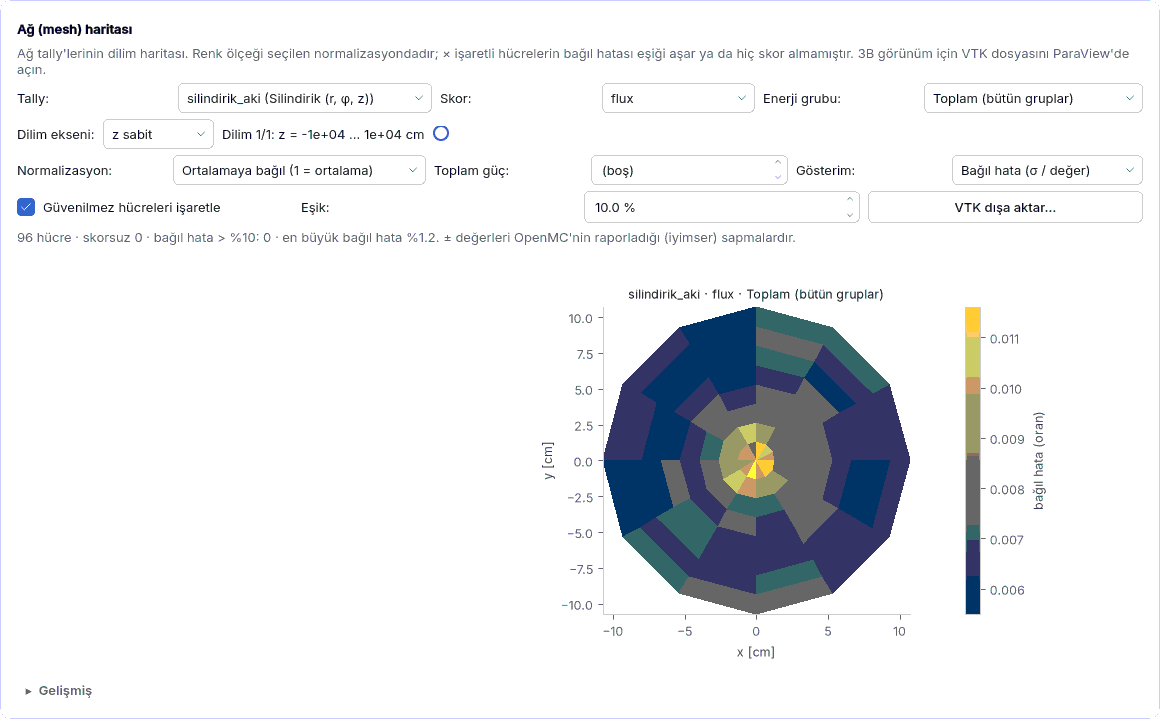
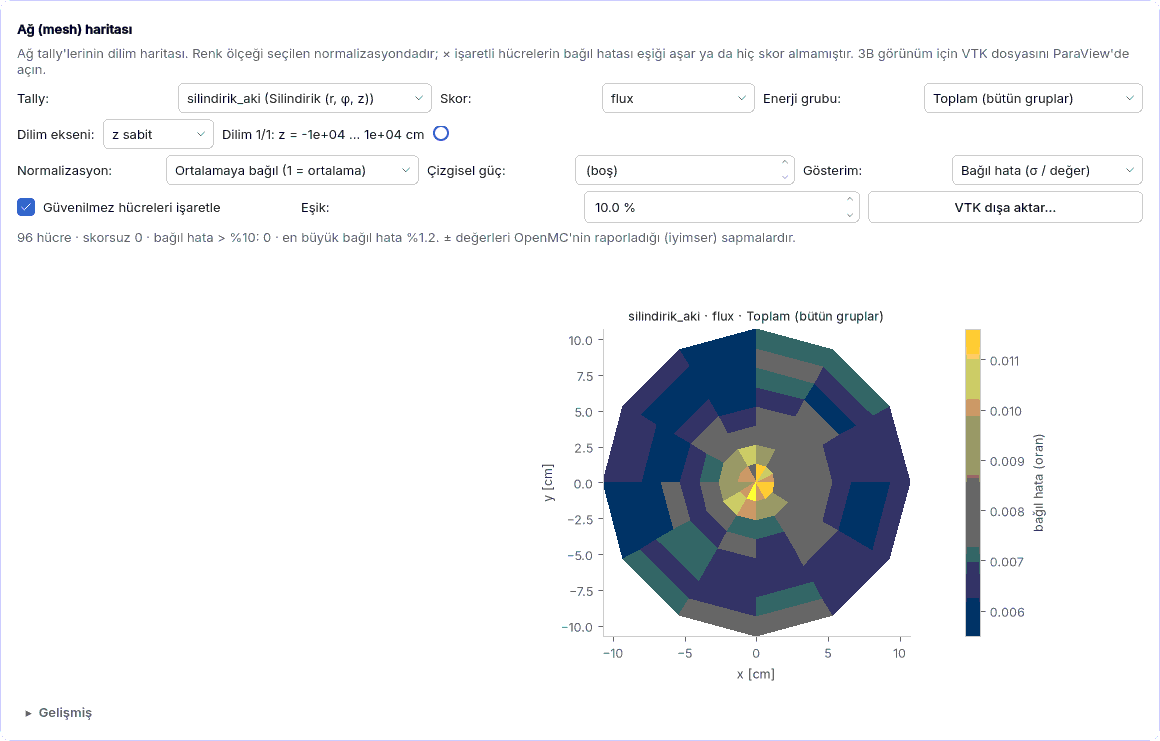
refactor(Y1): ortak islevlere tip aciklamalari; ekran goruntuleri yenilendi (2B'de Cizgisel guc kutusu)

diff --git a/cekirdek/mesh_tally/tanim.py b/cekirdek/mesh_tally/tanim.py
@@ -77,7 +77,7 @@ GRUP_YAPILARI = ("CASMO-2", "CASMO-4", "CASMO-8", "CASMO-16", "CASMO-25",
                  "CASMO-40", "CASMO-70", "XMAS-172", "SHEM-361")
 
 
-def mesh_turu(f):
+def mesh_turu(f: dict) -> str:
     """Filtrenin mesh turu; yoksa duzenli. Bilinmeyen tur ValueError."""
     tur = (f or {}).get("mesh_turu") or DUZENLI
     if tur not in MESH_TURLERI:
@@ -90,14 +90,14 @@ def mesh_turu(f):
 # kuruculari (spec sozlukleri; yeni nesne doner)
 # ---------------------------------------------------------------------------
 
-def filtre_duzenli(boyut, alt=None, ust=None):
+def filtre_duzenli(boyut, alt=None, ust=None) -> dict:
     """Duzenli mesh filtresi; alt/ust verilmezse sinirlar otomatik."""
     if alt is None or ust is None:
         return {"tur": "mesh", "boyut": list(boyut), "otomatik": True}
     return {"tur": "mesh", "boyut": list(boyut), "alt": list(alt), "ust": list(ust)}
 
 
-def filtre_silindirik(boyut, r_ust=None, z_alt=None, z_ust=None, merkez=None):
+def filtre_silindirik(boyut, r_ust=None, z_alt=None, z_ust=None, merkez=None) -> dict:
     """Silindirik mesh filtresi [nr, nphi, nz]; r_ust yoksa sinirlar otomatik."""
     f = {"tur": "mesh", "mesh_turu": SILINDIRIK, "boyut": list(boyut)}
     if r_ust is None:
@@ -109,7 +109,7 @@ def filtre_silindirik(boyut, r_ust=None, z_alt=None, z_ust=None, merkez=None):
     return f
 
 
-def filtre_kuresel(boyut, r_ust=None, merkez=None):
+def filtre_kuresel(boyut, r_ust=None, merkez=None) -> dict:
     """Kuresel mesh filtresi [nr, ntheta, nphi]; r_ust yoksa otomatik."""
     f = {"tur": "mesh", "mesh_turu": KURESEL, "boyut": list(boyut)}
     if r_ust is None:
@@ -156,7 +156,7 @@ def _acik_sinir_hatalari(f, tur):
     return hatalar
 
 
-def filtre_hatalari(f):
+def filtre_hatalari(f: dict) -> list:
     """Mesh filtresindeki hatalar (gorunen metin listesi); [] = gecerli."""
     try:
         tur = mesh_turu(f)
@@ -169,14 +169,14 @@ def filtre_hatalari(f):
 # sinirlar ve tanim
 # ---------------------------------------------------------------------------
 
-def model_sinir_kutusu(spec):
+def model_sinir_kutusu(spec: dict) -> tuple:
     """Modelin sinir kutusu (gx, gy) [cm] -- OpenMC modeli KURMADAN (geometri
     modelinden; kurucu.kur'un bilgi["sinir_kutu"] degeriyle ayni, test edilir)."""
     from cekirdek import geometri
     return tuple(float(x) for x in geometri.sinir_kutusu(geometri.model(spec)))
 
 
-def sinir_onerisi(spec, sinir_kutu, tur, z_aralik=None):
+def sinir_onerisi(spec: dict, sinir_kutu, tur: str, z_aralik=None) -> dict:
     """
     Modelin sinir kutusundan (gx, gy) [cm] otomatik sinir onerisi.
       duzenli    : x, y kurucu.tally_mesh_sinirlari ile ayni (sinir kutusu); z kor
@@ -203,7 +203,7 @@ def sinir_onerisi(spec, sinir_kutu, tur, z_aralik=None):
     raise ValueError(_("bilinmeyen ağ türü: %s") % tur)
 
 
-def eksenel_sonsuz(spec) -> bool:
+def eksenel_sonsuz(spec: dict) -> bool:
     """2B model: kor yuksekligi yok ve kure degil (spec'e gore z ekseninde sinir
     yok). Geometri yine de z'de sinirliysa kurucu/betik z_aralik ile kirpar
     (genel.geometri_z_araligi); butun orneklerde iki olcut ayni (test D7)."""
@@ -246,7 +246,7 @@ def mesh_tanimi(spec, f, sinir_kutu, z_aralik=None) -> dict:
     return tanim
 
 
-def izgaralar(tanim):
+def izgaralar(tanim: dict) -> tuple:
     """(eksen1, eksen2, eksen3) sinir izgaralari -- numpy.linspace (betikle ayni)."""
     import numpy as np
     eksenler = {DUZENLI: None, SILINDIRIK: ("r", "phi", "z"),
@@ -258,7 +258,7 @@ def izgaralar(tanim):
                  for e, n in zip(eksenler, tanim["boyut"]))
 
 
-def mesh_kur(tanim):
+def mesh_kur(tanim: dict):
     """Tanimdan openmc mesh nesnesi."""
     import openmc
     tur = tanim["tur"]
@@ -280,7 +280,7 @@ def _linspace_ifadesi(aralik, n):
     return "np.linspace(%r, %r, %d)" % (float(aralik[0]), float(aralik[1]), n + 1)
 
 
-def betik_satirlari(tanim, degisken):
+def betik_satirlari(tanim: dict, degisken: str) -> list:
     """Tanimdan betik satirlari (yeni liste); mesh_kur ile AYNI nesneyi kurar."""
     tur, b = tanim["tur"], tanim["boyut"]
     if tur == DUZENLI:
@@ -304,7 +304,8 @@ def betik_satirlari(tanim, degisken):
 NUMPY_SATIRI = "import numpy as np"
 
 
-def betik_filtresi(spec, f, sinir_kutu, degisken, z_aralik=None, onceki=()):
+def betik_filtresi(spec: dict, f: dict, sinir_kutu, degisken: str, z_aralik=None,
+                   onceki=()) -> list:
     """kod_uret kancasi: mesh filtresinin betik satirlari (aciklama dahil).
     onceki: betigin o ana kadarki satirlari -- numpy ice aktarimi BIR KEZ yazilir."""
     tanim = mesh_tanimi(spec, f, sinir_kutu, z_aralik)
@@ -326,7 +327,7 @@ def mesh_filtresi_kur(spec, f, sinir_kutu, z_aralik=None):
 # enerji grup yapilari
 # ---------------------------------------------------------------------------
 
-def grup_sinirlari(ad):
+def grup_sinirlari(ad: str) -> list:
     """Grup yapisinin sinirlari [eV] (artan; yeni liste). Bilinmeyen ad ValueError."""
     if ad not in GRUP_YAPILARI:
         raise ValueError(_("bilinmeyen enerji grup yapısı: %s") % ad)
@@ -334,7 +335,7 @@ def grup_sinirlari(ad):
     return [float(x) for x in GROUP_STRUCTURES[ad]]
 
 
-def yapi_bul(gruplar):
+def yapi_bul(gruplar) -> str | None:
     """Sinir listesi bilinen bir yapiya esitse adi, degilse None."""
     hedef = [float(x) for x in gruplar or []]
     for ad in GRUP_YAPILARI:

diff --git a/cekirdek/mesh_tally/geometri.py b/cekirdek/mesh_tally/geometri.py
@@ -19,7 +19,7 @@ from cekirdek.ceviri import _
 from cekirdek.mesh_tally.tanim import DUZENLI, SILINDIRIK, KURESEL
 
 
-def mesh_tur_bul(mesh):
+def mesh_tur_bul(mesh) -> str:
     """openmc mesh nesnesinin turu; desteklenmeyen sinif ValueError."""
     ad = type(mesh).__name__
     turler = {"RegularMesh": DUZENLI, "CylindricalMesh": SILINDIRIK,
@@ -29,7 +29,7 @@ def mesh_tur_bul(mesh):
     return turler[ad]
 
 
-def mesh_izgaralari(mesh):
+def mesh_izgaralari(mesh) -> tuple:
     """openmc mesh -> (eksen1, eksen2, eksen3) sinir izgaralari (yeni diziler)."""
     tur = mesh_tur_bul(mesh)
     if tur == DUZENLI:
@@ -42,7 +42,7 @@ def mesh_izgaralari(mesh):
                  (mesh.r_grid, mesh.theta_grid, mesh.phi_grid))
 
 
-def hacimler(tur, izgaralar):
+def hacimler(tur: str, izgaralar) -> np.ndarray:
     """Hucre hacimleri [cm3], sekil (n1, n2, n3)."""
     a, b, c = (np.asarray(g, dtype=float) for g in izgaralar)
     if tur == DUZENLI:
@@ -56,7 +56,7 @@ def hacimler(tur, izgaralar):
     return da[:, None, None] * db[None, :, None] * dc[None, None, :]
 
 
-def kartezyen(tur, a, b, c, merkez):
+def kartezyen(tur: str, a, b, c, merkez) -> tuple:
     """Ag koordinatlarini (ayni sekilli diziler) kartezyen (x, y, z)'ye cevirir."""
     ox, oy, oz = merkez
     if tur == DUZENLI:
@@ -67,7 +67,7 @@ def kartezyen(tur, a, b, c, merkez):
     return rxy * np.cos(c) + ox, rxy * np.sin(c) + oy, a * np.cos(b) + oz
 
 
-def koseler(tur, izgaralar, merkez):
+def koseler(tur: str, izgaralar, merkez) -> np.ndarray:
     """Kose noktalari (N, 3): i en hizli, sonra j, sonra k (VTK STRUCTURED_GRID
     ve OpenMC'nin np.swapaxes(vertices, 0, 2).reshape(-1, 3) sirasi)."""
     a, b, c = np.meshgrid(*izgaralar, indexing="ij")
@@ -113,7 +113,7 @@ def _dilim_kafesi(tur, izgaralar, eksen, merkez):
     return A * _DERECE, B * _DERECE, "θ [°]", "φ [°]", False
 
 
-def dilim(sonuc, dizi, eksen, indeks):
+def dilim(sonuc, dizi, eksen: int, indeks: int) -> "Dilim":
     """3B dizinin (n1, n2, n3) `eksen` ekseninde `indeks` dilimi (Dilim)."""
     dizi = np.asarray(dizi)
     if eksen not in (0, 1, 2) or not 0 <= indeks < dizi.shape[eksen]:

diff --git a/cekirdek/mesh_tally/vtk.py b/cekirdek/mesh_tally/vtk.py
@@ -47,7 +47,8 @@ def _nuklid_ekleri(sonuc, nuklid):
     return [(i, "_" + n) for i, n in enumerate(sonuc.nuklidler)]
 
 
-def alanlar(sonuc, yontem="hacim", kaynak_hizi=None, nuklid=None, eksenel_sonsuz=False):
+def alanlar(sonuc, yontem="hacim", kaynak_hizi=None, nuklid=None,
+            eksenel_sonsuz=False) -> dict:
     """{alan adi: 3B dizi} -- her skor, nuklid, grup ve gruplarin toplami (yeni sozluk).
     nuklid None: tek nuklidde o, cokta hepsi."""
     payda, olcu_turu = _nrm.olcu(sonuc, eksenel_sonsuz)
@@ -110,7 +111,7 @@ def _yerlesik_yaz(sonuc, f, veri):
         np.savetxt(f, np.asarray(dizi, dtype=float).T.ravel(), fmt="%.17g")
 
 
-def vtk_yolunu_denetle(yol):
+def vtk_yolunu_denetle(yol) -> str:
     """Yazmadan ONCE: .vtk uzantisi ve yazilabilir ust dizin (OSError/ValueError)."""
     if not str(yol).lower().endswith(".vtk"):
         raise ValueError(_("VTK dosya adı .vtk ile bitmeli: %s") % yol)
